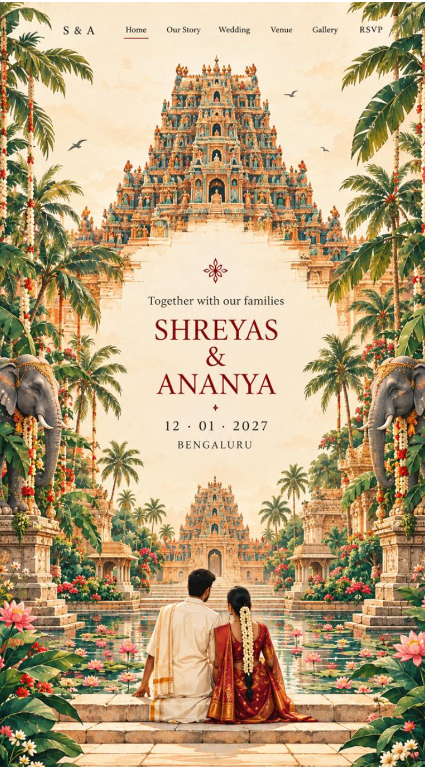
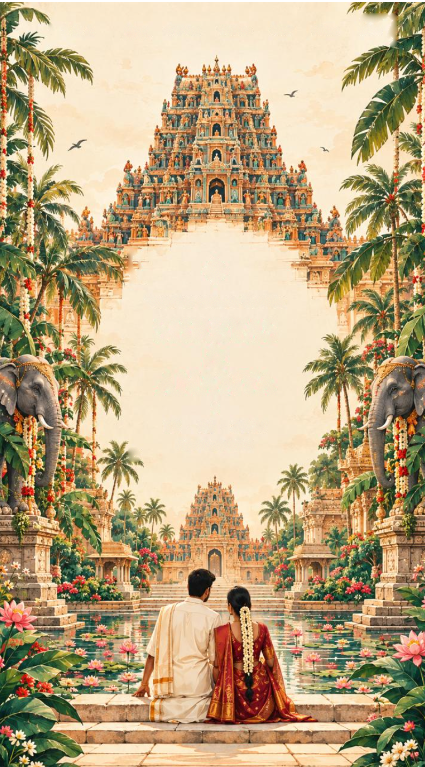
fix: make Classic Illustration hero full screen and remove baked names
- Inpaint and remove baked hardcoded names (Shreyas & Ananya) from illustration
- Remove max-width and aspect ratio constraints to occupy 100% of the screen
- Smooth parallax camera pan with zero jerk motion using useSpring
- Render dynamic couple names and dates fetched cleanly from form data

diff --git a/components/templates/classic-illustration/sections/01-HeroIllustration.tsx b/components/templates/classic-illustration/sections/01-HeroIllustration.tsx
@@ -28,26 +28,26 @@ export function HeroIllustration({
 
   // Inertial spring to completely eliminate any jerkiness on trackpads or mouse wheels
   const smoothProgress = useSpring(scrollYProgress, {
-    stiffness: 50,
-    damping: 22,
+    stiffness: 45,
+    damping: 20,
     restDelta: 0.0001,
   });
 
   // 3D Parallax & Vertical Camera Pan
-  // At 0%: Centered on top Gopuram & Title
-  // At 100%: Camera tilts/pans down to the couple sitting by the sacred lotus pond
-  const imageY = useTransform(smoothProgress, [0, 1], ["0%", "-42%"]);
-  const imageScale = useTransform(smoothProgress, [0, 0.5, 1], [1, 1.04, 1.08]);
+  // At 0%: Camera focuses on the Grand Gopuram & the dynamic couple names
+  // At 100%: Camera smoothly tilts and pans down into the tranquil lotus pond with the couple in limelight
+  const imageY = useTransform(smoothProgress, [0, 1], ["0%", "-38%"]);
+  const imageScale = useTransform(smoothProgress, [0, 0.5, 1], [1, 1.03, 1.06]);
 
-  // Phase 1: Gopuram & Couple Names Fade Out
-  const gopuramOpacity = useTransform(smoothProgress, [0, 0.3, 0.55], [1, 0.9, 0]);
-  const gopuramY = useTransform(smoothProgress, [0, 0.5], [0, -80]);
-  const textScale = useTransform(smoothProgress, [0, 0.45], [1, 0.94]);
+  // Phase 1: Gopuram & Couple Names Fade Out on scroll
+  const gopuramOpacity = useTransform(smoothProgress, [0, 0.25, 0.45], [1, 0.85, 0]);
+  const gopuramY = useTransform(smoothProgress, [0, 0.45], [0, -70]);
+  const gopuramFadeMask = useTransform(smoothProgress, [0.15, 0.48], [0, 0.95]);
 
   // Phase 2: Second Half (Couple at Lotus Pond) Coming into the Limelight
-  const pondLimelightOpacity = useTransform(smoothProgress, [0.35, 0.65, 1], [0, 1, 1]);
-  const pondTextY = useTransform(smoothProgress, [0.4, 0.75], [50, 0]);
-  const waterGlowOpacity = useTransform(smoothProgress, [0.4, 0.8], [0, 0.75]);
+  const pondLimelightOpacity = useTransform(smoothProgress, [0.38, 0.65, 1], [0, 1, 1]);
+  const pondTextY = useTransform(smoothProgress, [0.38, 0.7], [45, 0]);
+  const pondSunlightGlow = useTransform(smoothProgress, [0.35, 0.75], [0, 0.85]);
 
   const brideFirst = brideName.split(" ")[0];
   const groomFirst = groomName.split(" ")[0];
@@ -57,18 +57,19 @@ export function HeroIllustration({
       ref={containerRef}
       className="relative w-full min-h-[220vh] bg-[#F7F2E7] select-none"
     >
-      {/* STICKY FULLSCREEN VIEWPORT */}
+      {/* STICKY FULLSCREEN VIEWPORT - OCCUPIES 100% OF THE SCREEN */}
       <div className="sticky top-0 h-screen w-full overflow-hidden flex flex-col justify-between">
+        
         {/* TOP FLOATING NAVIGATION BAR */}
-        <header className="relative z-30 w-full px-6 py-5 flex items-center justify-between max-w-5xl mx-auto transition-all duration-300">
-          {/* Monogram */}
-          <div className="font-serif text-lg sm:text-xl tracking-[0.25em] text-[#801818] font-semibold">
+        <header className="relative z-30 w-full px-6 py-5 flex items-center justify-between max-w-6xl mx-auto transition-all duration-300">
+          {/* Couple Monogram */}
+          <div className="font-serif text-lg sm:text-2xl tracking-[0.25em] text-[#801818] font-bold drop-shadow-sm">
             {groomFirst[0]} &amp; {brideFirst[0]}
           </div>
 
           {/* Navigation Links */}
-          <nav className="flex items-center gap-4 sm:gap-8 font-serif text-xs sm:text-sm tracking-wider text-[#554339]">
-            <span className="text-[#801818] font-medium border-b-2 border-[#801818] pb-0.5">
+          <nav className="flex items-center gap-4 sm:gap-8 font-serif text-xs sm:text-sm tracking-wider text-[#4A382E] bg-white/40 backdrop-blur-md px-5 py-2 rounded-full border border-[#D4AF37]/30 shadow-sm">
+            <span className="text-[#801818] font-semibold border-b-2 border-[#801818] pb-0.5">
               Home
             </span>
             <span className="hover:text-[#801818] transition-colors cursor-pointer hidden xs:inline">
@@ -83,80 +84,78 @@ export function HeroIllustration({
             <span className="hover:text-[#801818] transition-colors cursor-pointer hidden sm:inline">
               Gallery
             </span>
-            <span className="hover:text-[#801818] transition-colors cursor-pointer text-[#801818] font-medium">
+            <span className="hover:text-[#801818] transition-colors cursor-pointer text-[#801818] font-semibold">
               RSVP
             </span>
           </nav>
         </header>
 
-        {/* 3D PARALLAX ILLUSTRATION CANVAS */}
-        <div className="absolute inset-0 z-0 flex items-center justify-center overflow-hidden">
-          {/* Background Illustration Canvas */}
+        {/* FULLSCREEN 3D PARALLAX ILLUSTRATION - OCCUPIES ENTIRE VIEWPORT */}
+        <div className="absolute inset-0 z-0 w-full h-full overflow-hidden pointer-events-none">
           <motion.div
             style={{
               y: imageY,
               scale: imageScale,
             }}
-            className="relative w-full h-[185vh] sm:h-[180vh] max-w-[850px] aspect-[9/16] will-change-transform"
+            className="relative w-full h-[165vh] will-change-transform origin-top"
           >
             <Image
               src="/images/templates/classic-illustration/hero_illustration.png"
               alt="Classic South Indian Temple Illustration"
               fill
               priority
-              sizes="(max-width: 768px) 100vw, 850px"
-              className="object-cover object-top select-none pointer-events-none drop-shadow-2xl"
+              sizes="100vw"
+              className="object-cover object-top select-none pointer-events-none"
             />
 
-            {/* Limelight Lighting Wash for the Second Half (Pond & Couple) */}
+            {/* Limelight Golden Sunlight Aura over Sacred Pond & Couple */}
             <motion.div
-              style={{ opacity: waterGlowOpacity }}
-              className="absolute inset-x-0 bottom-0 h-3/5 bg-radial-gradient from-[#FFE8B3]/25 via-transparent to-transparent pointer-events-none"
+              style={{ opacity: pondSunlightGlow }}
+              className="absolute inset-x-0 bottom-0 h-2/3 bg-radial-gradient from-[#FFEBB3]/35 via-[#F7D896]/15 to-transparent pointer-events-none"
             />
 
-            {/* Smooth Top Gopuram Fade Mask on Scroll */}
+            {/* Smooth Atmospheric Mist that dissolves the Top Gopuram on scroll */}
             <motion.div
-              style={{ opacity: useTransform(smoothProgress, [0.2, 0.6], [0, 0.9]) }}
-              className="absolute inset-x-0 top-0 h-1/2 bg-gradient-to-b from-[#F7F2E7] via-[#F7F2E7]/80 to-transparent pointer-events-none"
+              style={{ opacity: gopuramFadeMask }}
+              className="absolute inset-x-0 top-0 h-3/5 bg-gradient-to-b from-[#F7F2E7] via-[#F7F2E7]/85 to-transparent pointer-events-none"
             />
           </motion.div>
         </div>
 
-        {/* FLOATING FLOWERS AND LOTUS BLOSSOMS LAYER */}
+        {/* FLOATING LOTUS BLOSSOMS & PETALS LAYER (ENTIRE SCREEN WIDTH) */}
         <FloatingFlowers isPondStage={true} />
 
-        {/* PHASE 1 OVERLAY: TOP TEXT & GOPURAM PRESENTATION */}
+        {/* PHASE 1 OVERLAY: TOP GOPURAM TEXT PRESENTATION (DYNAMIC FROM FORM) */}
         <motion.div
           style={{
             opacity: gopuramOpacity,
             y: gopuramY,
-            scale: textScale,
           }}
-          className="relative z-10 my-auto flex flex-col items-center justify-center text-center px-4 will-change-transform pointer-events-none"
+          className="relative z-10 my-auto flex flex-col items-center justify-center text-center px-4 will-change-transform pointer-events-none max-w-2xl mx-auto"
         >
-          {/* Sacred Kolam / Auspicious Emblem */}
-          <div className="mb-3 text-[#801818]">
+          {/* Auspicious Red Emblem */}
+          <div className="mb-2 text-[#801818]">
             <svg
               viewBox="0 0 40 40"
               fill="currentColor"
-              className="w-7 h-7 mx-auto drop-shadow-sm opacity-90"
+              className="w-8 h-8 mx-auto drop-shadow-sm opacity-90"
             >
               <path d="M20 2 C22 10, 30 18, 38 20 C30 22, 22 30, 20 38 C18 30, 10 22, 2 20 C10 18, 18 10, 20 2 Z" />
-              <circle cx="20" cy="20" r="3" fill="#FFF" />
+              <circle cx="20" cy="20" r="3.5" fill="#FFF" />
             </svg>
           </div>
 
-          <p className="font-serif text-xs sm:text-sm tracking-[0.25em] text-[#4A3D34] mb-3 uppercase">
+          <p className="font-serif text-xs sm:text-sm tracking-[0.3em] text-[#4A382E] mb-2 uppercase font-medium">
             Together with our families
           </p>
 
-          {/* Couple Names */}
-          <h1 className="font-serif text-3xl sm:text-5xl md:text-6xl text-[#801818] font-normal tracking-[0.1em] uppercase leading-tight drop-shadow-sm">
-            <span>{groomName}</span>
-            <span className="block font-serif italic text-2xl sm:text-3xl md:text-4xl text-[#A63535] my-1 font-light lowercase">
+          {/* Couple Names from Form */}
+          <h1 className="font-serif text-4xl sm:text-6xl md:text-7xl text-[#801818] font-normal tracking-[0.1em] uppercase leading-none drop-shadow-sm">
+            <span className="block">{groomName}</span>
+            <span className="block font-serif italic text-2xl sm:text-4xl text-[#A63535] my-1 font-light lowercase">
               &amp;
             </span>
-            <span>{brideName}</span>
+            <span className="block">{brideName}</span>
           </h1>
 
           {/* Red Floral Diamond Divider */}
@@ -164,20 +163,20 @@ export function HeroIllustration({
             <span className="w-1.5 h-1.5 rotate-45 bg-[#801818]" />
           </div>
 
-          {/* Date and City */}
-          <p className="font-serif text-sm sm:text-base tracking-[0.3em] text-[#3D2D24] uppercase">
+          {/* Wedding Date and City from Form */}
+          <p className="font-serif text-sm sm:text-lg tracking-[0.3em] text-[#3D2D24] uppercase font-medium">
             {weddingDate}
           </p>
           <p className="font-serif text-xs sm:text-sm tracking-[0.35em] text-[#554339] mt-1 uppercase">
             {city}
           </p>
 
-          {/* Scroll Down Prompt */}
-          <div className="mt-8 flex flex-col items-center gap-1 opacity-70">
-            <span className="text-[10px] tracking-[0.25em] uppercase text-[#735A4B] font-sans">
+          {/* Scroll Down Cue */}
+          <div className="mt-8 flex flex-col items-center gap-1.5 opacity-80">
+            <span className="text-[10px] tracking-[0.3em] uppercase text-[#735A4B] font-sans font-medium">
               Scroll into the Sanctum
             </span>
-            <span className="text-[#801818] text-sm animate-bounce">↓</span>
+            <span className="text-[#801818] text-base animate-bounce">↓</span>
           </div>
         </motion.div>
 
@@ -187,29 +186,29 @@ export function HeroIllustration({
             opacity: pondLimelightOpacity,
             y: pondTextY,
           }}
-          className="absolute inset-x-0 bottom-12 z-20 flex flex-col items-center justify-center text-center px-6 pointer-events-none will-change-transform"
+          className="absolute inset-x-0 bottom-10 sm:bottom-14 z-20 flex flex-col items-center justify-center text-center px-4 pointer-events-none will-change-transform"
         >
-          <div className="max-w-lg bg-[#FAF5EC]/90 backdrop-blur-md px-8 py-5 rounded-2xl border border-[#D4AF37]/50 shadow-2xl space-y-2">
-            <span className="text-[10px] uppercase tracking-[0.35em] text-[#801818] font-sans font-bold">
+          <div className="max-w-md sm:max-w-lg bg-[#FAF5EC]/92 backdrop-blur-md px-6 sm:px-10 py-5 rounded-2xl border border-[#D4AF37]/50 shadow-[0_20px_50px_rgba(43,27,23,0.18)] space-y-2">
+            <span className="text-[10px] uppercase tracking-[0.35em] text-[#801818] font-sans font-bold block">
               The Sacred Pushkarini
             </span>
-            <h3 className="font-serif text-xl sm:text-2xl text-[#241712] font-normal">
+            <h3 className="font-serif text-xl sm:text-2xl text-[#241712] font-normal leading-snug">
               Where Sacred Waters Mirror Timeless Devotion
             </h3>
             <p className="font-serif text-xs sm:text-sm text-[#5C4D43] italic leading-relaxed">
               &ldquo;Sitting beside the blossoming lotuses, gazing upon the sanctum where two souls become one.&rdquo;
             </p>
-            <div className="pt-2 flex items-center justify-center gap-3 text-xs tracking-widest uppercase text-[#801818] font-sans">
-              <span>{groomFirst}</span>
+            <div className="pt-2 flex items-center justify-center gap-3 text-xs tracking-widest uppercase text-[#801818] font-sans font-semibold">
+              <span>{groomName}</span>
               <span>•</span>
-              <span>{brideFirst}</span>
+              <span>{brideName}</span>
             </div>
           </div>
         </motion.div>
 
-        {/* Bottom subtle gradient spacer */}
+        {/* Bottom subtle indicator */}
         <div className="relative z-10 w-full pb-3 text-center pointer-events-none">
-          <span className="text-[9px] tracking-[0.3em] uppercase text-[#554339]/50">
+          <span className="text-[9px] tracking-[0.3em] uppercase text-[#554339]/40 font-sans">
             Scroll to Journey Ahead
           </span>
         </div>
